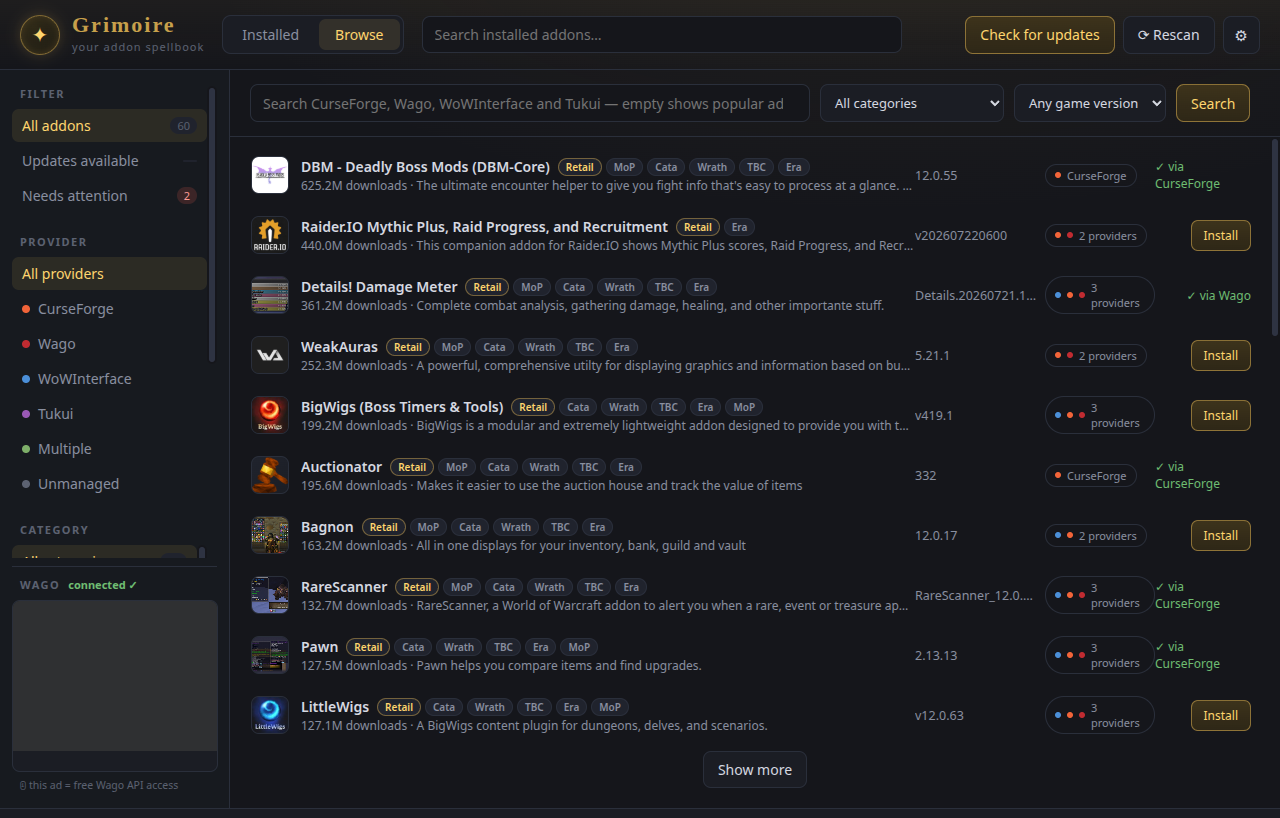
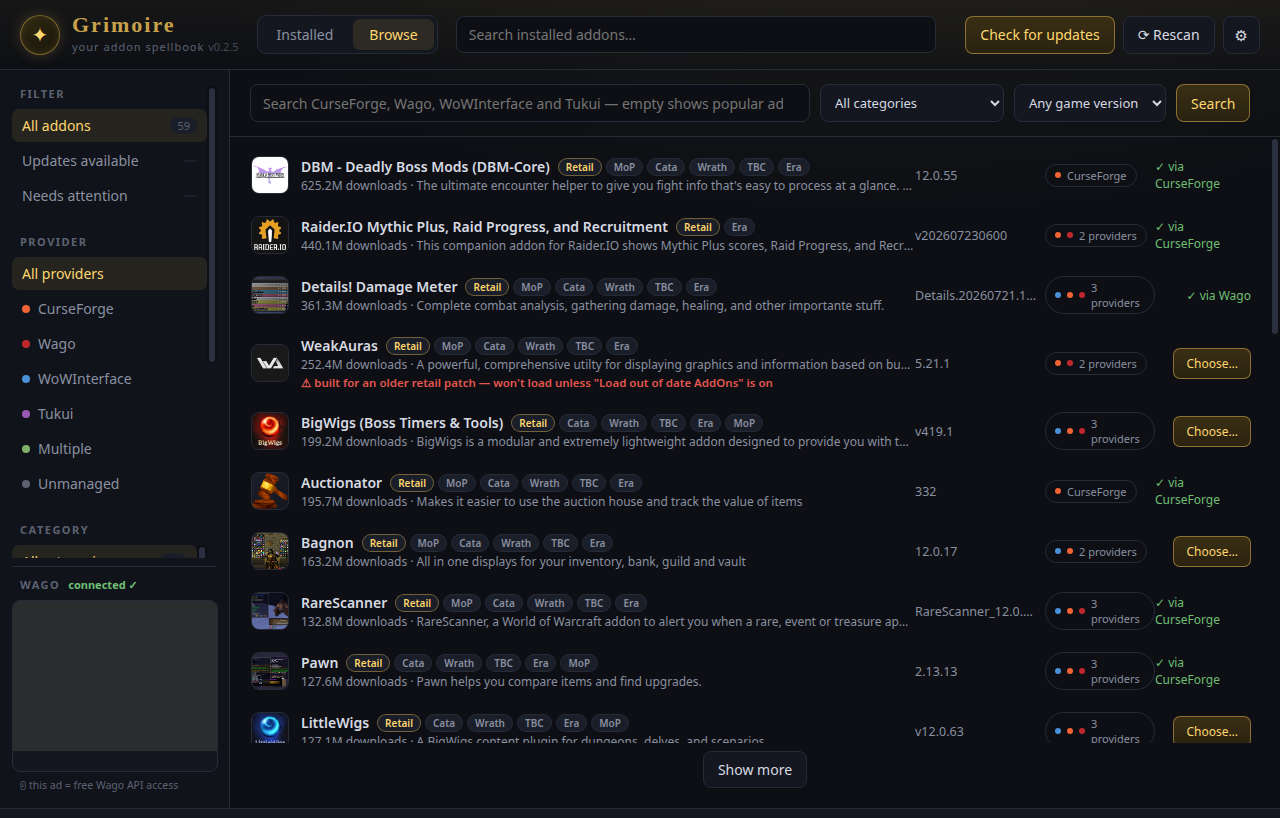
Retake the Browse screenshot and quiet a benign Wago-token toast on launch
The README's browse.png still showed the old undifferentiated "Install"
button on multi-provider rows and no compatibility warnings — it depicted
the exact behavior fixed in the last release. Retaken to show the
"Choose…" picker button and a compatibility warning in place.

Also: a provider/update check that races the Wago ad panel's token
handoff on a cold start gets a 401 that resolves itself within seconds via
the existing wago:refresh path — toasting that as an error was just noise
during launch. Suppressed for the first 20s after load; anything past that
window still surfaces normally.

diff --git a/ui/app.js b/ui/app.js
@@ -3,6 +3,21 @@
 const $ = (sel) => document.querySelector(sel);
 const $$ = (sel) => [...document.querySelectorAll(sel)];
 
+// The Wago ad panel needs a moment to hand over a fresh public token on a
+// cold start; a provider/update check that races ahead of it gets a 401 that
+// resolves itself within seconds via wago:refresh (see initWagoAd). Toasting
+// that as an error is just noise, so swallow it during launch — anything
+// past this window is a real, worth-surfacing failure.
+const APP_LAUNCH_AT = Date.now();
+const WAGO_AUTH_GRACE_MS = 20000;
+function toastProviderErrors(errors) {
+  const inGrace = Date.now() - APP_LAUNCH_AT < WAGO_AUTH_GRACE_MS;
+  for (const err of errors || []) {
+    if (inGrace && /^Wago: (HTTP 40[13]|No Wago token yet)\b/.test(err)) continue;
+    toast(err, "error");
+  }
+}
+
 const state = {
   packages: [],
   updates: {},        // key -> update info from providers
@@ -490,7 +505,7 @@ async function checkUpdates() {
     const res = await window.grimoire.checkUpdates(state.packages);
     state.updates = res.perPackage || {};
     state.clientInterface = res.clientInterface || null;
-    for (const err of res.errors || []) toast(err, "error");
+    toastProviderErrors(res.errors);
     // Provider-health summary — easy to miss scrolling a long list.
     const vals = Object.values(state.updates);
     const moved = vals.filter((u) => u.betterElsewhere).length;
@@ -1028,7 +1043,7 @@ async function browseSearch() {
   try {
     const res = await window.grimoire.searchProviders({ query: q, categoryId, categoryName });
     for (const note of res.notes || []) toast(note);
-    for (const err of res.errors || []) toast(err, "error");
+    toastProviderErrors(res.errors);
     if (res.clientInterface) state.clientInterface = res.clientInterface;
     state.browseResults = res.results || [];
     state.browseShown = 30;
@@ -1189,7 +1204,7 @@ async function browseLoadMore() {
       ...state.browseQuery,
       cursor: state.browseCursor,
     });
-    for (const err of res.errors || []) toast(err, "error");
+    toastProviderErrors(res.errors);
     if (res.clientInterface) state.clientInterface = res.clientInterface;
     state.browseResults = res.results || state.browseResults;
     state.browseCursor = res.cursor || state.browseCursor;